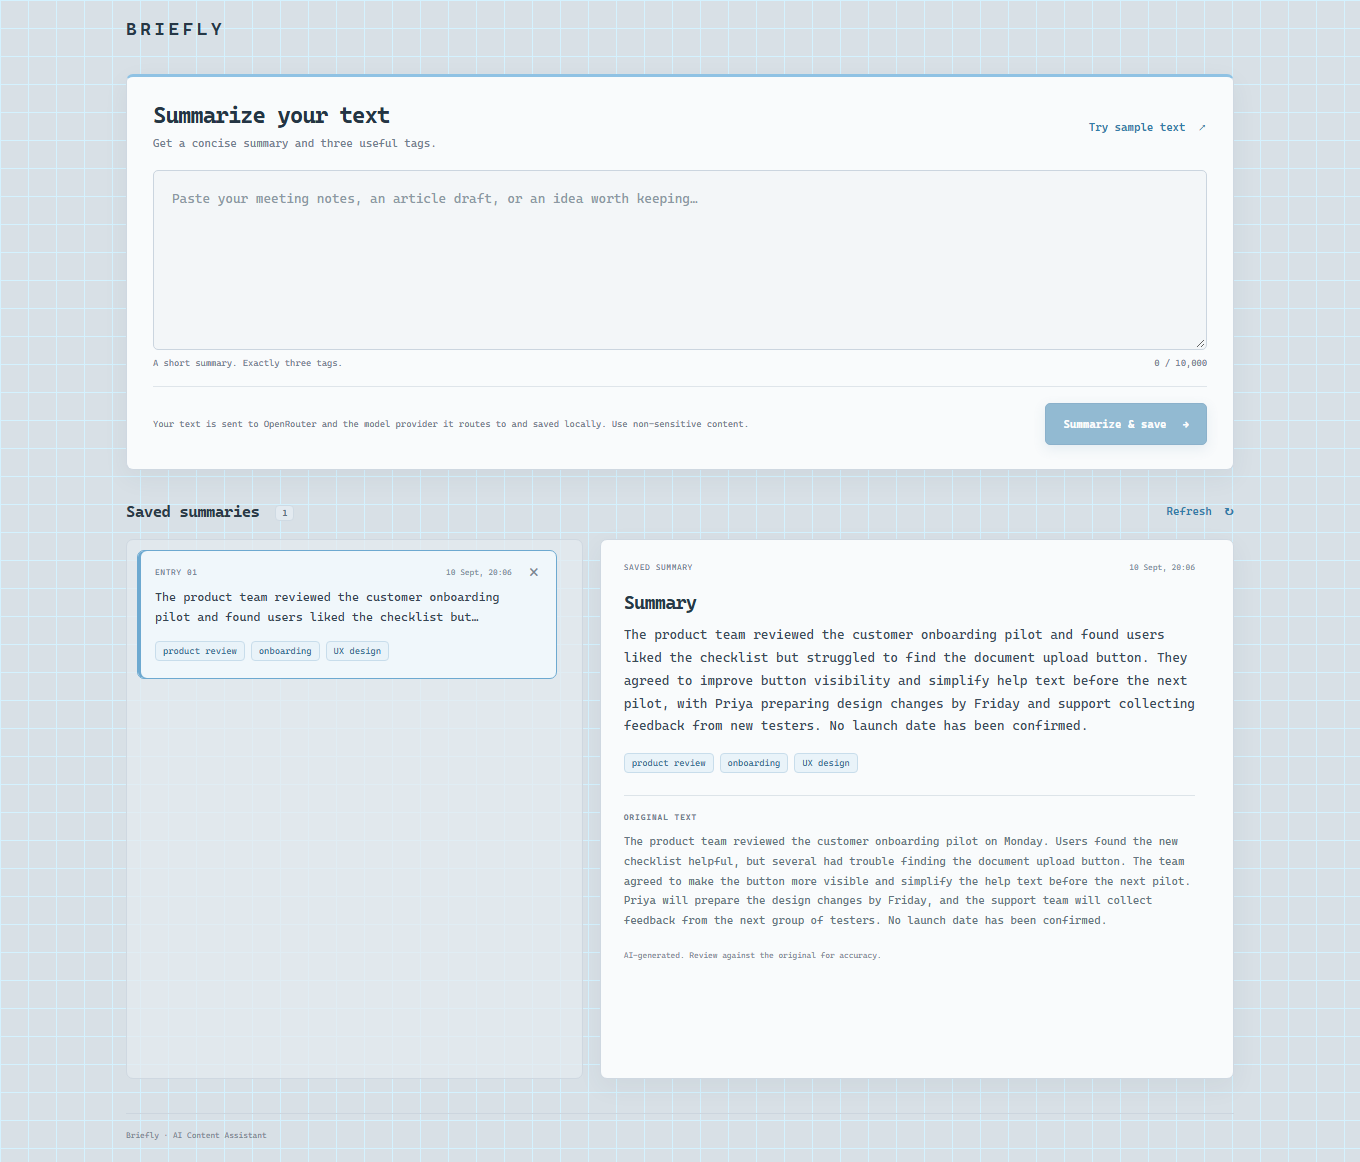
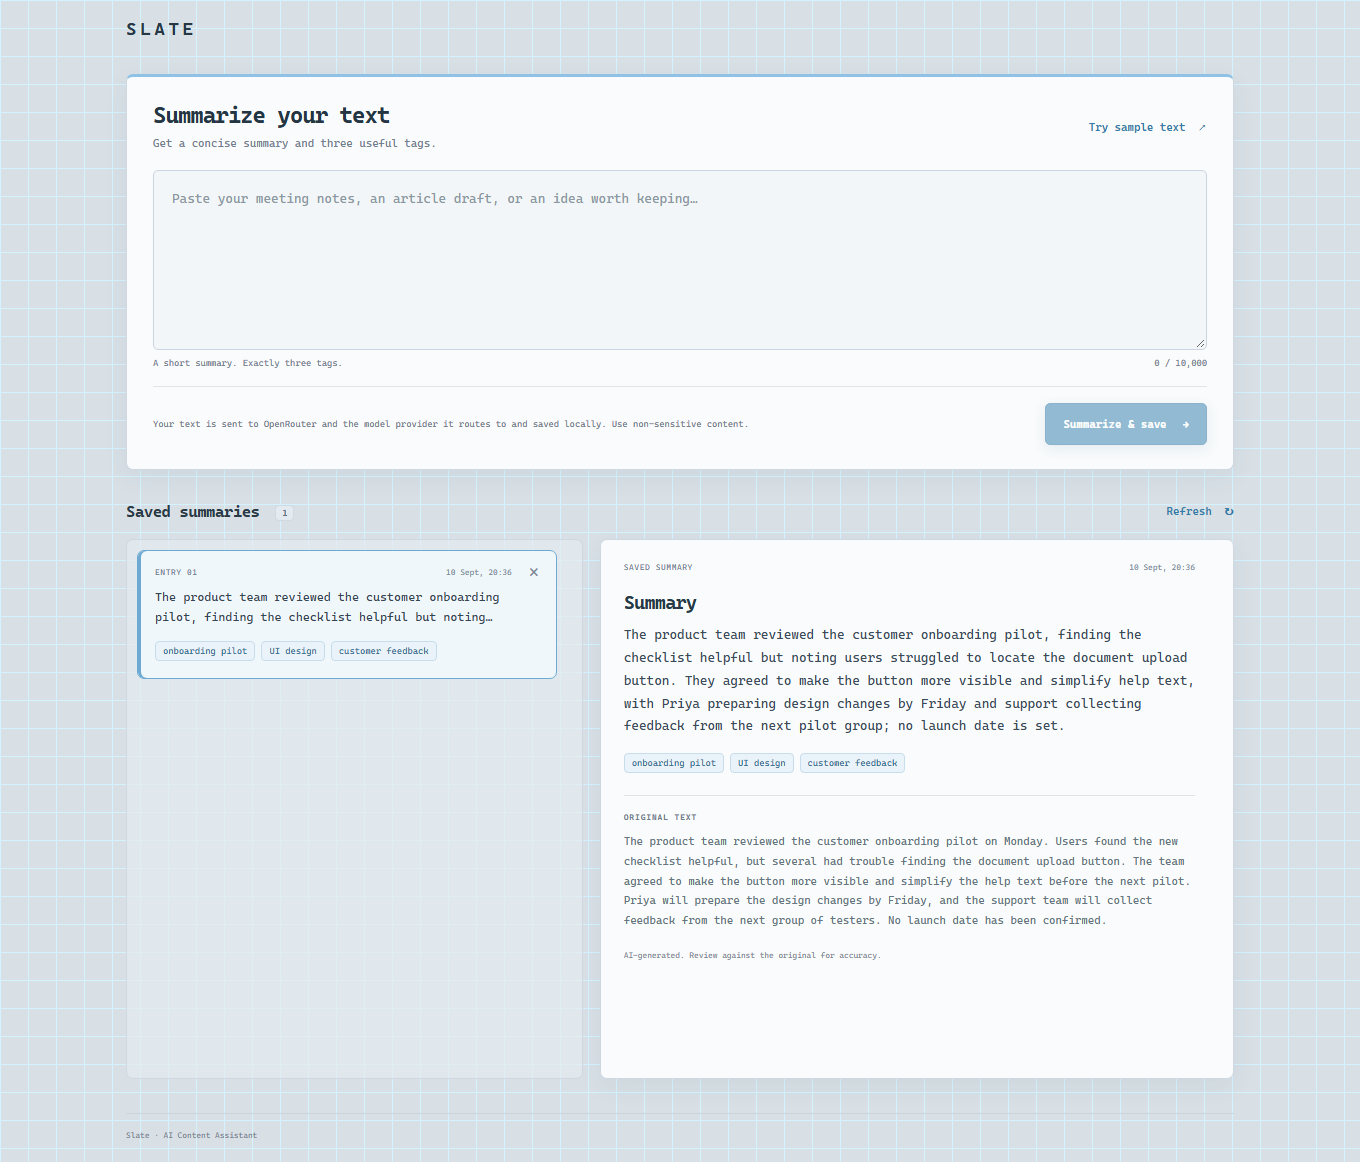
chore: rename application to Slate

diff --git a/frontend/src/App.jsx b/frontend/src/App.jsx
@@ -158,8 +158,8 @@ export default function App() {
   return (
     <div className="app">
       <header className="topbar">
-        <a className="brand" href="/" aria-label="Briefly home">
-          BRIEFLY
+        <a className="brand" href="/" aria-label="Slate home">
+          SLATE
         </a>
       </header>
       <main>
@@ -376,7 +376,7 @@ export default function App() {
         </section>
       </main>
       <footer>
-        <span>Briefly · AI Content Assistant</span>
+        <span>Slate · AI Content Assistant</span>
       </footer>
     </div>
   );

diff --git a/frontend/index.html b/frontend/index.html
@@ -4,7 +4,7 @@
     <meta charset="UTF-8" />
     <meta name="viewport" content="width=device-width, initial-scale=1.0" />
     <meta name="theme-color" content="#d8e0e6" />
-    <title>Briefly · AI Content Assistant</title>
+    <title>Slate · AI Content Assistant</title>
   </head>
   <body>
     <div id="root"></div>

diff --git a/docs/verification.md b/docs/verification.md
@@ -10,7 +10,7 @@ The assignment is an IIFL Finance 2–3 hour prototype exercise. Keep scope smal
 - Desktop and mobile screenshots: visually inspected; no horizontal overflow or clipped content found.
 - Python test tooling emitted two upstream deprecation warnings (Starlette/httpx and AnyIO); tests passed. No global packages were upgraded.
 - Real OpenRouter generation: **verified** with `deepseek/deepseek-v4-flash-0731`; browser submit/save/reload/detail and exactly three relevant tags passed. The summary preserved the pilot decisions, Friday deadline, and unconfirmed launch date. See `live-verification.json` and the refreshed `screenshot.png`. Direct Gemini remains fixture-tested only.
-- GitHub's unauthenticated repository API confirmed [Atharva254/briefly](https://github.com/Atharva254/briefly) is public. `.env.example` contains configuration names with blank values; `.env` and SQLite files are ignored. No OpenRouter/Gemini credential patterns were found in tracked files (a targeted scan, not a guarantee covering every possible secret).
+- GitHub's unauthenticated repository API confirmed [Atharva254/slate](https://github.com/Atharva254/slate) is public. `.env.example` contains configuration names with blank values; `.env` and SQLite files are ignored. No OpenRouter/Gemini credential patterns were found in tracked files (a targeted scan, not a guarantee covering every possible secret).
 
 ## Additional provider check on 10 September 2026
 
@@ -41,7 +41,7 @@ The assignment is an IIFL Finance 2–3 hour prototype exercise. Keep scope smal
 | Setup, six concise README answers | `README.md` |
 | No committed credentials | Names-only `.env.example`, `.gitignore` |
 | Screenshot of working flow | `docs/screenshot.png`: actual OpenRouter output; separate fixture evidence is labelled |
-| Public repository | `main` published at [Atharva254/briefly](https://github.com/Atharva254/briefly) |
+| Public repository | `main` published at [Atharva254/slate](https://github.com/Atharva254/slate) |
 
 ## Repeat live verification (requires the selected provider key)
 

diff --git a/README.md b/README.md
@@ -1,4 +1,4 @@
-# Briefly — Small AI Content Assistant
+# Slate — Small AI Content Assistant
 
 React + Python/FastAPI + SQLite + interchangeable LLM providers (OpenRouter or direct Gemini). Submit text, get a concise summary and exactly three tags, and reopen saved originals.
 
